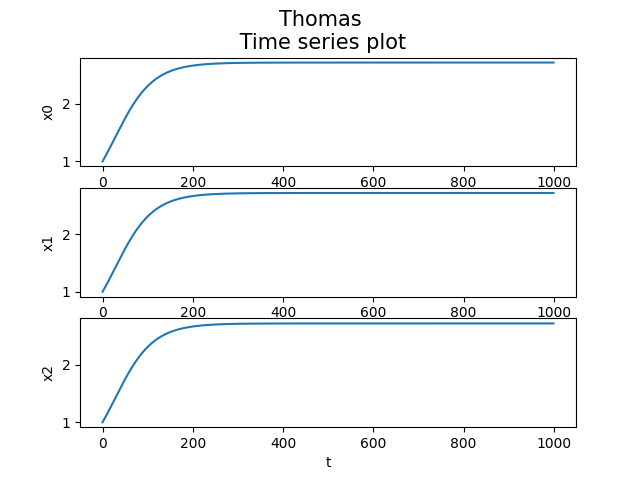
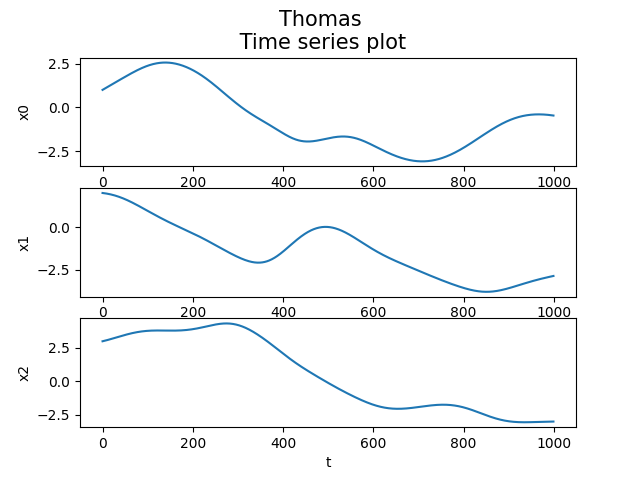
There was no problem with thomas

diff --git a/src/create_dummy_time_series.py b/src/create_dummy_time_series.py
@@ -113,14 +113,10 @@ if __name__ == "__main__":
     #plot_dynamical_system()
 
     #lorenz_trajectory = simulate_lorenz(t_max = 300000)
-    thomas_trajectory = simulate_thomas(vec0=[1,1,1],t_max = 1000)
-    make_3d_plot(thomas_trajectory[:,0],
-                 thomas_trajectory[:,1],
-                 thomas_trajectory[:,2])
+    trajectory = simulate_thomas(vec0=np.array([1,2,3]),t_max = 5000)
+    make_3d_plot(trajectory[:, 0], trajectory[:, 1], trajectory[:, 2])
     #white_noise_trajectory = simulate_additive_white_noise(t_max = 200)
 
     #plot_time_series(lorenz_trajectory[280000:,], filename = "Lorenz")
-    plot_time_series(thomas_trajectory[:,], filename="Thomas")
+    plot_time_series(trajectory, filename="Thomas")
     #plot_time_series(white_noise_trajectory, filename = "White noise")
-
-    print("hallo")
